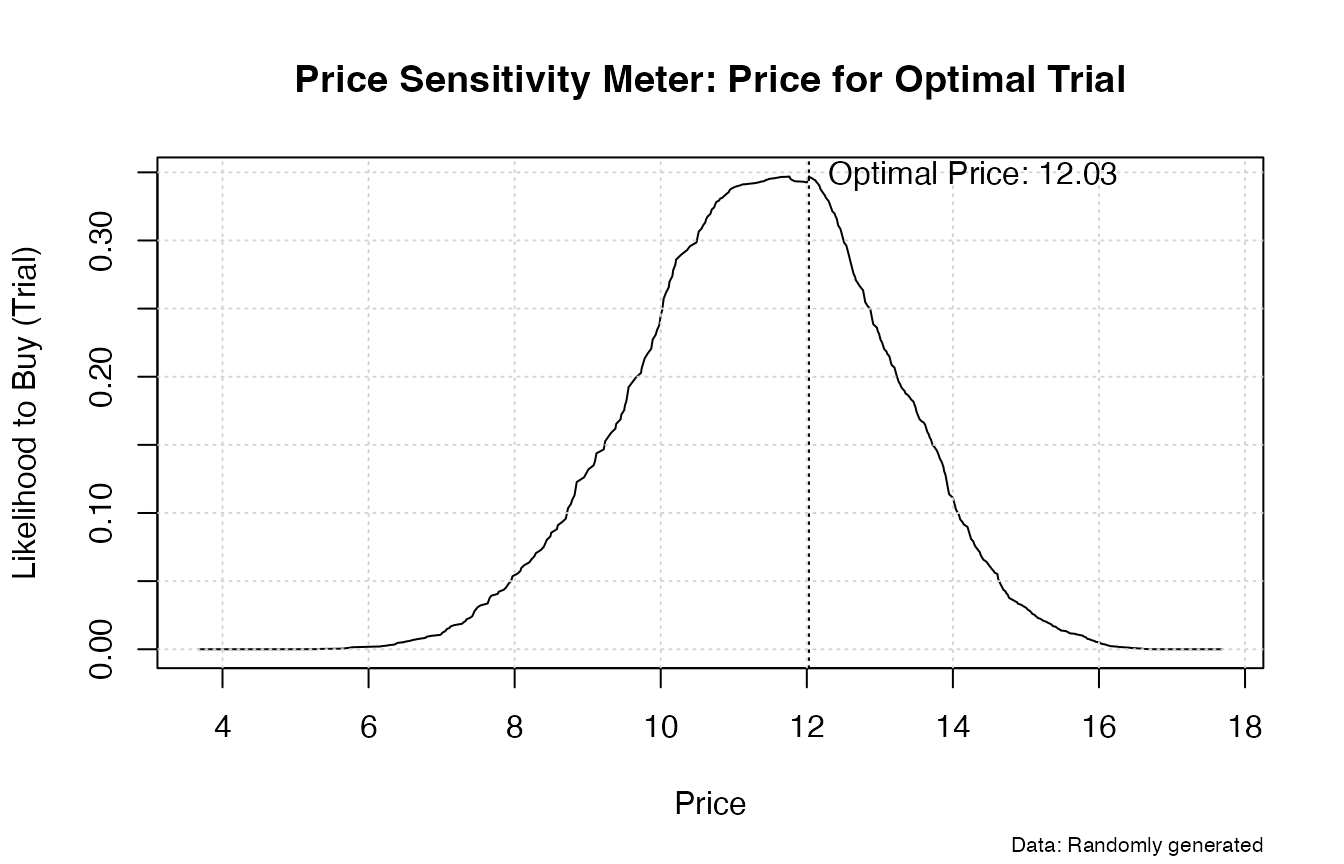
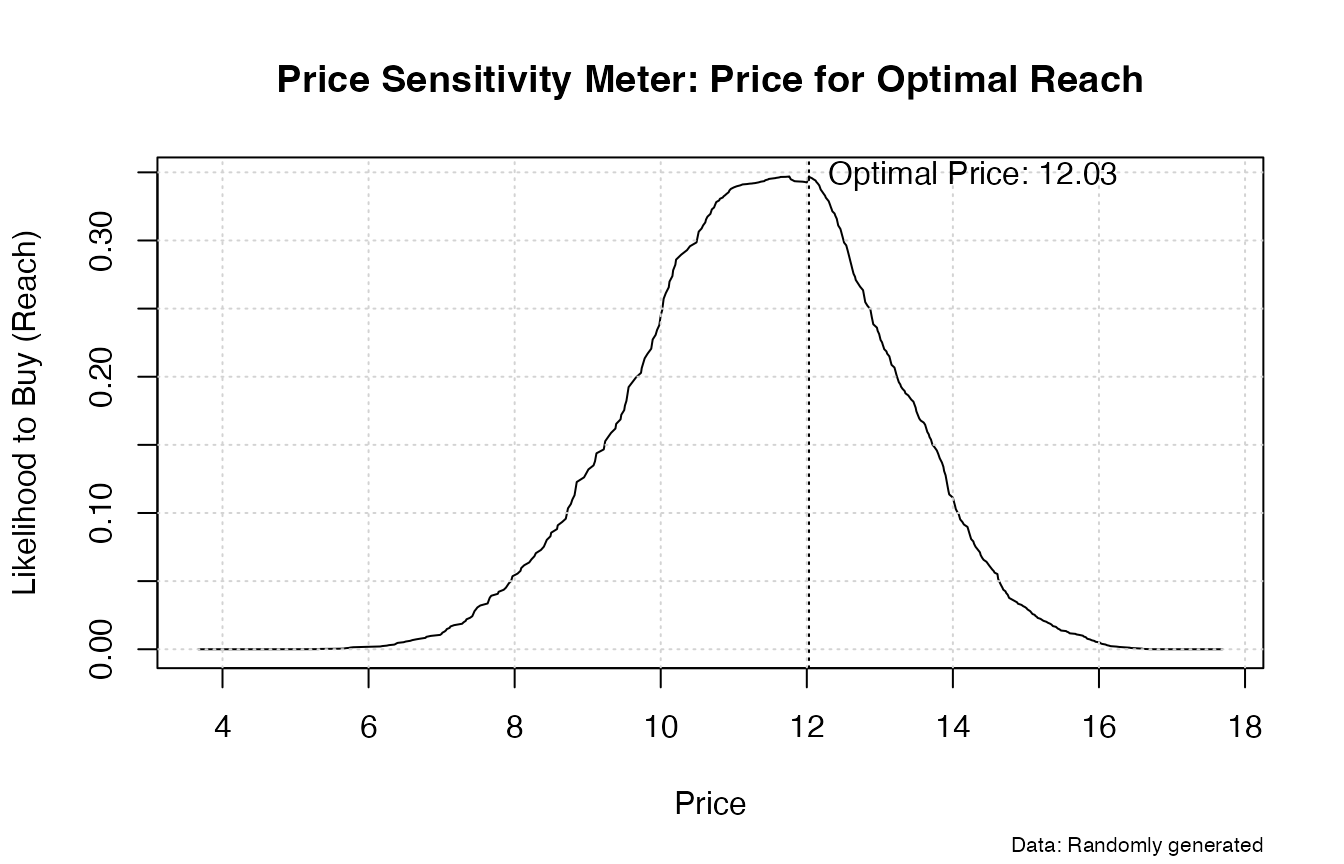
Built site for pricesensitivitymeter: 1.3.0@da3caf9

Changed region(s): [[0.1875, 0.0625, 0.8438, 0.125], [0.0, 0.2812, 0.0312, 0.6875]]

diff --git a/articles/visualizing-psm-results.html b/articles/visualizing-psm-results.html
@@ -88,7 +88,7 @@
                         <h4 data-toc-skip class="author">Max
 Alletsee</h4>
             
-            <h4 data-toc-skip class="date">2024-02-24</h4>
+            <h4 data-toc-skip class="date">2024-02-25</h4>
       
       <small class="dont-index">Source: <a href="https://github.com/max-alletsee/pricesensitivitymeter/blob/HEAD/vignettes/visualizing-psm-results.Rmd" class="external-link"><code>vignettes/visualizing-psm-results.Rmd</code></a></small>
       <div class="hidden name"><code>visualizing-psm-results.Rmd</code></div>
@@ -402,8 +402,8 @@ the lack of transparency in the shaded range of acceptable prices.</p>
 <p><img src="visualizing-psm-results_files/figure-html/unnamed-chunk-5-1.png" width="672"></p>
 </div>
 <div class="section level3">
-<h3 id="ggplot-optimal-trial-and-revenue-based-on-newton-miller-smith-extension">ggplot: Optimal Trial and Revenue (based on Newton Miller Smith
-Extension)<a class="anchor" aria-label="anchor" href="#ggplot-optimal-trial-and-revenue-based-on-newton-miller-smith-extension"></a>
+<h3 id="ggplot-optimal-reach-and-revenue-based-on-newton-miller-smith-extension">ggplot: Optimal Reach and Revenue (based on Newton Miller Smith
+Extension)<a class="anchor" aria-label="anchor" href="#ggplot-optimal-reach-and-revenue-based-on-newton-miller-smith-extension"></a>
 </h3>
 <p>When we have information of the purchase intent at the “cheap” and at
 the “expensive” price point, we can also model the optimal price to
@@ -411,7 +411,7 @@ maximize reach or revenue based on the Newton Miller Smith Extension</p>
 <div class="sourceCode" id="cb6"><pre class="downlit sourceCode r">
 <code class="sourceCode R"><span><span class="kw"><a href="https://rdrr.io/r/base/library.html" class="external-link">library</a></span><span class="op">(</span><span class="va"><a href="https://ggplot2.tidyverse.org" class="external-link">ggplot2</a></span><span class="op">)</span></span>
 <span></span>
-<span><span class="co"># Plot for Optimal Trial</span></span>
+<span><span class="co"># Plot for Optimal Reach</span></span>
 <span><span class="fu"><a href="https://ggplot2.tidyverse.org/reference/ggplot.html" class="external-link">ggplot</a></span><span class="op">(</span>data <span class="op">=</span> <span class="va">output_psm</span><span class="op">$</span><span class="va">data_nms</span>, <span class="fu"><a href="https://ggplot2.tidyverse.org/reference/aes.html" class="external-link">aes</a></span><span class="op">(</span>x <span class="op">=</span> <span class="va">price</span><span class="op">)</span><span class="op">)</span> <span class="op">+</span> </span>
 <span>  <span class="fu"><a href="https://ggplot2.tidyverse.org/reference/geom_path.html" class="external-link">geom_line</a></span><span class="op">(</span><span class="fu"><a href="https://ggplot2.tidyverse.org/reference/aes.html" class="external-link">aes</a></span><span class="op">(</span>y <span class="op">=</span> <span class="va">reach</span><span class="op">)</span><span class="op">)</span> <span class="op">+</span> <span class="co"># reach curve</span></span>
 <span>  <span class="fu"><a href="https://ggplot2.tidyverse.org/reference/geom_abline.html" class="external-link">geom_vline</a></span><span class="op">(</span>xintercept <span class="op">=</span> <span class="va">output_psm</span><span class="op">$</span><span class="va">price_optimal_reach</span>,</span>
@@ -420,8 +420,8 @@ maximize reach or revenue based on the Newton Miller Smith Extension</p>
 <span>            <span class="fu"><a href="https://ggplot2.tidyverse.org/reference/aes.html" class="external-link">aes</a></span><span class="op">(</span>x <span class="op">=</span> <span class="va">price</span> <span class="op">+</span> <span class="fl">0.5</span>, y <span class="op">=</span> <span class="va">reach</span><span class="op">)</span>,</span>
 <span>            label <span class="op">=</span> <span class="fu"><a href="https://rdrr.io/r/base/paste.html" class="external-link">paste</a></span><span class="op">(</span><span class="st">"Optimal Price:"</span>, <span class="va">output_psm</span><span class="op">$</span><span class="va">price_optimal_reach</span><span class="op">)</span>,</span>
 <span>            hjust <span class="op">=</span> <span class="fl">0</span><span class="op">)</span> <span class="op">+</span> <span class="co"># labelling the optimal price</span></span>
-<span>  <span class="fu"><a href="https://ggplot2.tidyverse.org/reference/labs.html" class="external-link">labs</a></span><span class="op">(</span>x <span class="op">=</span> <span class="st">"Price"</span>, y <span class="op">=</span> <span class="st">"Likelihood to Buy (Trial)"</span>,</span>
-<span>       title <span class="op">=</span> <span class="st">"Price Sensitivity Meter: Price for Optimal Trial"</span>,</span>
+<span>  <span class="fu"><a href="https://ggplot2.tidyverse.org/reference/labs.html" class="external-link">labs</a></span><span class="op">(</span>x <span class="op">=</span> <span class="st">"Price"</span>, y <span class="op">=</span> <span class="st">"Likelihood to Buy (Reach)"</span>,</span>
+<span>       title <span class="op">=</span> <span class="st">"Price Sensitivity Meter: Price for Optimal Reach"</span>,</span>
 <span>       caption <span class="op">=</span> <span class="st">"Data: Randomly generated"</span><span class="op">)</span> <span class="op">+</span></span>
 <span>  <span class="fu"><a href="https://ggplot2.tidyverse.org/reference/ggtheme.html" class="external-link">theme_minimal</a></span><span class="op">(</span><span class="op">)</span></span></code></pre></div>
 <p><img src="visualizing-psm-results_files/figure-html/unnamed-chunk-6-1.png" width="672"></p>
@@ -445,8 +445,8 @@ maximize reach or revenue based on the Newton Miller Smith Extension</p>
 <p><img src="visualizing-psm-results_files/figure-html/unnamed-chunk-6-2.png" width="672"></p>
 </div>
 <div class="section level3">
-<h3 id="base-plot-optimal-trial-and-revenue-based-on-newton-miller-smith-extension">Base Plot: Optimal Trial and Revenue (based on Newton Miller Smith
-Extension)<a class="anchor" aria-label="anchor" href="#base-plot-optimal-trial-and-revenue-based-on-newton-miller-smith-extension"></a>
+<h3 id="base-plot-optimal-reach-and-revenue-based-on-newton-miller-smith-extension">Base Plot: Optimal Reach and Revenue (based on Newton Miller Smith
+Extension)<a class="anchor" aria-label="anchor" href="#base-plot-optimal-reach-and-revenue-based-on-newton-miller-smith-extension"></a>
 </h3>
 <p>Below are versions of the same plots with R’s base plot function
 instead of <em>ggplot2</em>. For those simpler plots, the differences
@@ -454,14 +454,14 @@ between ggplot and base plot are less pronounced.</p>
 <div class="sourceCode" id="cb8"><pre class="downlit sourceCode r">
 <code class="sourceCode R"><span><span class="fu"><a href="https://rdrr.io/r/graphics/par.html" class="external-link">par</a></span><span class="op">(</span>cex.sub <span class="op">=</span> <span class="fl">0.66</span><span class="op">)</span> <span class="co"># reducing the font size of the subtitle</span></span>
 <span></span>
-<span><span class="co"># a) Plot for Optimal Trial</span></span>
+<span><span class="co"># a) Plot for Optimal Reach</span></span>
 <span><span class="co"># Main plot: Line, axis descriptions</span></span>
 <span><span class="fu"><a href="https://rdrr.io/r/graphics/plot.default.html" class="external-link">plot</a></span><span class="op">(</span>x <span class="op">=</span> <span class="va">output_psm</span><span class="op">$</span><span class="va">data_nms</span><span class="op">$</span><span class="va">price</span>,</span>
 <span>     y <span class="op">=</span> <span class="va">output_psm</span><span class="op">$</span><span class="va">data_nms</span><span class="op">$</span><span class="va">reach</span>,</span>
 <span>     type <span class="op">=</span> <span class="st">"l"</span>,</span>
-<span>     main <span class="op">=</span> <span class="st">"Price Sensitivity Meter: Price for Optimal Trial"</span>,</span>
+<span>     main <span class="op">=</span> <span class="st">"Price Sensitivity Meter: Price for Optimal Reach"</span>,</span>
 <span>     xlab <span class="op">=</span> <span class="st">"Price"</span>,</span>
-<span>     ylab <span class="op">=</span> <span class="st">"Likelihood to Buy (Trial)"</span><span class="op">)</span></span>
+<span>     ylab <span class="op">=</span> <span class="st">"Likelihood to Buy (Reach)"</span><span class="op">)</span></span>
 <span></span>
 <span><span class="fu"><a href="https://rdrr.io/r/graphics/grid.html" class="external-link">grid</a></span><span class="op">(</span><span class="op">)</span> <span class="co"># adding gridlines</span></span>
 <span></span>

diff --git a/articles/using-weighted-data.html b/articles/using-weighted-data.html
@@ -88,7 +88,7 @@
                         <h4 data-toc-skip class="author">Max
 Alletsee</h4>
             
-            <h4 data-toc-skip class="date">2024-02-24</h4>
+            <h4 data-toc-skip class="date">2024-02-25</h4>
       
       <small class="dont-index">Source: <a href="https://github.com/max-alletsee/pricesensitivitymeter/blob/HEAD/vignettes/using-weighted-data.Rmd" class="external-link"><code>vignettes/using-weighted-data.Rmd</code></a></small>
       <div class="hidden name"><code>using-weighted-data.Rmd</code></div>
@@ -272,7 +272,7 @@ need sub-group analyses to understand this.</p>
 <span><span class="co"># now let's create a sample design object (using the survey package)</span></span>
 <span><span class="co"># ... assuming that gender is balanced equally in the population of 10000</span></span>
 <span></span>
-<span><span class="co"># for survey design object: occurence of each gender in the target population</span></span>
+<span><span class="co"># for survey design object: occurrence of each gender in the target population</span></span>
 <span><span class="co"># would usually be information from sampling frame, differs here only for demonstration purposes</span></span>
 <span><span class="co"># here: scaling up based on actual sample information (hypothetical population of 250 * 4 = 10k)</span></span>
 <span><span class="va">input_data_2</span><span class="op">$</span><span class="va">gender_pop</span> <span class="op">&lt;-</span> <span class="cn">NA</span></span>
@@ -455,7 +455,7 @@ indifference price point are estimated.</p>
 <h2 id="using-weighting-in-the-newton-miller-smith-extension">Using Weighting in the Newton Miller Smith Extension<a class="anchor" aria-label="anchor" href="#using-weighting-in-the-newton-miller-smith-extension"></a>
 </h2>
 <p>The <code><a href="../reference/psm_analysis_weighted.html">psm_analysis_weighted()</a></code> function also allows to
-include an estimate for the price with optimal trial or optimal revenue
+include an estimate for the price with optimal reach or optimal revenue
 via the Newton Miller Smith extension. This option can be used in the
 same way as in the unweighted <code><a href="../reference/psm_analysis.html">psm_analysis()</a></code> function.</p>
 <div class="sourceCode" id="cb7"><pre class="downlit sourceCode r">
@@ -495,7 +495,7 @@ same way as in the unweighted <code><a href="../reference/psm_analysis.html">psm
 <span><span class="co">#&gt; Optimal Price Point: 13.63 </span></span>
 <span><span class="co">#&gt; </span></span>
 <span><span class="co">#&gt; Newton Miller Smith Extension</span></span>
-<span><span class="co">#&gt; Price with Optimal Trial Rate: </span></span>
+<span><span class="co">#&gt; Price with Optimal Reach: 12.16 </span></span>
 <span><span class="co">#&gt; Price with Optimal Revenue: 17.7 </span></span>
 <span><span class="co">#&gt; </span></span>
 <span><span class="co">#&gt; ---</span></span>

diff --git a/reference/psm-class.html b/reference/psm-class.html
@@ -119,11 +119,11 @@ The main purpose is to create a custom summary function for objects of class "ps
     <dt><code>pi_scale</code>:</dt>
 <dd><p>Object of class <code>"data.frame"</code>. Shows the values of the purchase intent variable and the corresponding calibrated purchase probabilities as defined in the function input for the Newton Miller Smith extension.</p></dd>
 
-    <dt><code>price_optimal_trial</code>:</dt>
-<dd><p>Object of class <code>"numeric"</code>. Output of the Newton Miller Smith extension: Estimate for the price with the highest trial rate.</p></dd>
+    <dt><code>price_optimal_reach</code>:</dt>
+<dd><p>Object of class <code>"numeric"</code>. Output of the Newton Miller Smith extension: Estimate for the price with the highest reach (trial rate).</p></dd>
 
     <dt><code>price_optimal_revenue</code>:</dt>
-<dd><p>Object of class <code>"numeric"</code>. Output of the Newton Miller Smith extension: Estimate for the price with the highest revenue (based on the trial rate).</p></dd>
+<dd><p>Object of class <code>"numeric"</code>. Output of the Newton Miller Smith extension: Estimate for the price with the highest revenue (based on the reach).</p></dd>
 
   
 </dl></div>
@@ -168,7 +168,7 @@ The main purpose is to create a custom summary function for objects of class "ps
 <span class="r-out co"><span class="r-pr">#&gt;</span> Name:               weighted         survey_design                   NMS</span>
 <span class="r-out co"><span class="r-pr">#&gt;</span> Class:               logical        survey.design2               logical</span>
 <span class="r-out co"><span class="r-pr">#&gt;</span>                                                                         </span>
-<span class="r-out co"><span class="r-pr">#&gt;</span> Name:               data_nms              pi_scale   price_optimal_trial</span>
+<span class="r-out co"><span class="r-pr">#&gt;</span> Name:               data_nms              pi_scale   price_optimal_reach</span>
 <span class="r-out co"><span class="r-pr">#&gt;</span> Class:            data.frame            data.frame               numeric</span>
 <span class="r-out co"><span class="r-pr">#&gt;</span>                             </span>
 <span class="r-out co"><span class="r-pr">#&gt;</span> Name:  price_optimal_revenue</span>

diff --git a/index.html b/index.html
@@ -93,7 +93,7 @@
 <div class="section level2">
 <h2 id="overview">Overview<a class="anchor" aria-label="anchor" href="#overview"></a>
 </h2>
-<p>pricesensitivitymeter is an implementation of the van Westendorp Price Sensitivity Meter (PSM) in R, which is a popular method in market research to analyze consumer price preferences and price sensitivity. It also covers the so-called Newton Miller Smith Extension which allows to estimate prices that maximize the trial rate and the revenue.</p>
+<p>pricesensitivitymeter is an implementation of the van Westendorp Price Sensitivity Meter (PSM) in R, which is a popular method in market research to analyze consumer price preferences and price sensitivity. It also covers the so-called Newton Miller Smith Extension which allows to estimate prices that maximize the reach (trial rate) and the revenue.</p>
 </div>
 <div class="section level2">
 <h2 id="installation">Installation<a class="anchor" aria-label="anchor" href="#installation"></a>

diff --git a/articles/interpolation-in-small-samples.html b/articles/interpolation-in-small-samples.html
@@ -88,7 +88,7 @@
                         <h4 data-toc-skip class="author">Max
 Alletsee</h4>
             
-            <h4 data-toc-skip class="date">2024-02-24</h4>
+            <h4 data-toc-skip class="date">2024-02-25</h4>
       
       <small class="dont-index">Source: <a href="https://github.com/max-alletsee/pricesensitivitymeter/blob/HEAD/vignettes/interpolation-in-small-samples.Rmd" class="external-link"><code>vignettes/interpolation-in-small-samples.Rmd</code></a></small>
       <div class="hidden name"><code>interpolation-in-small-samples.Rmd</code></div>
